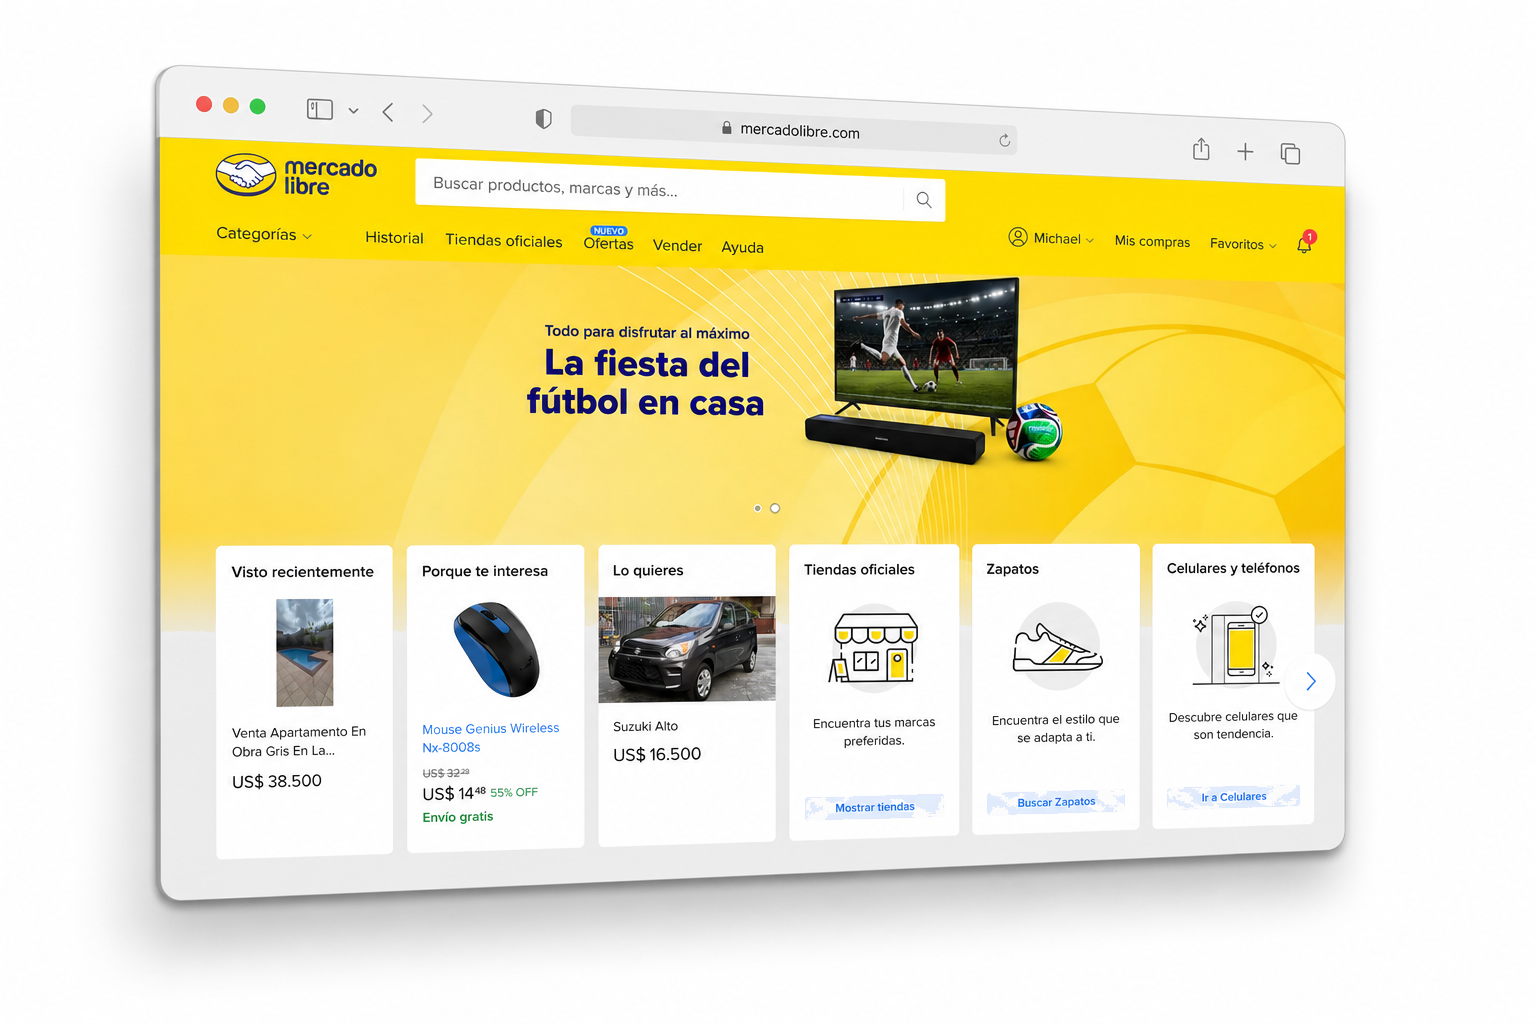
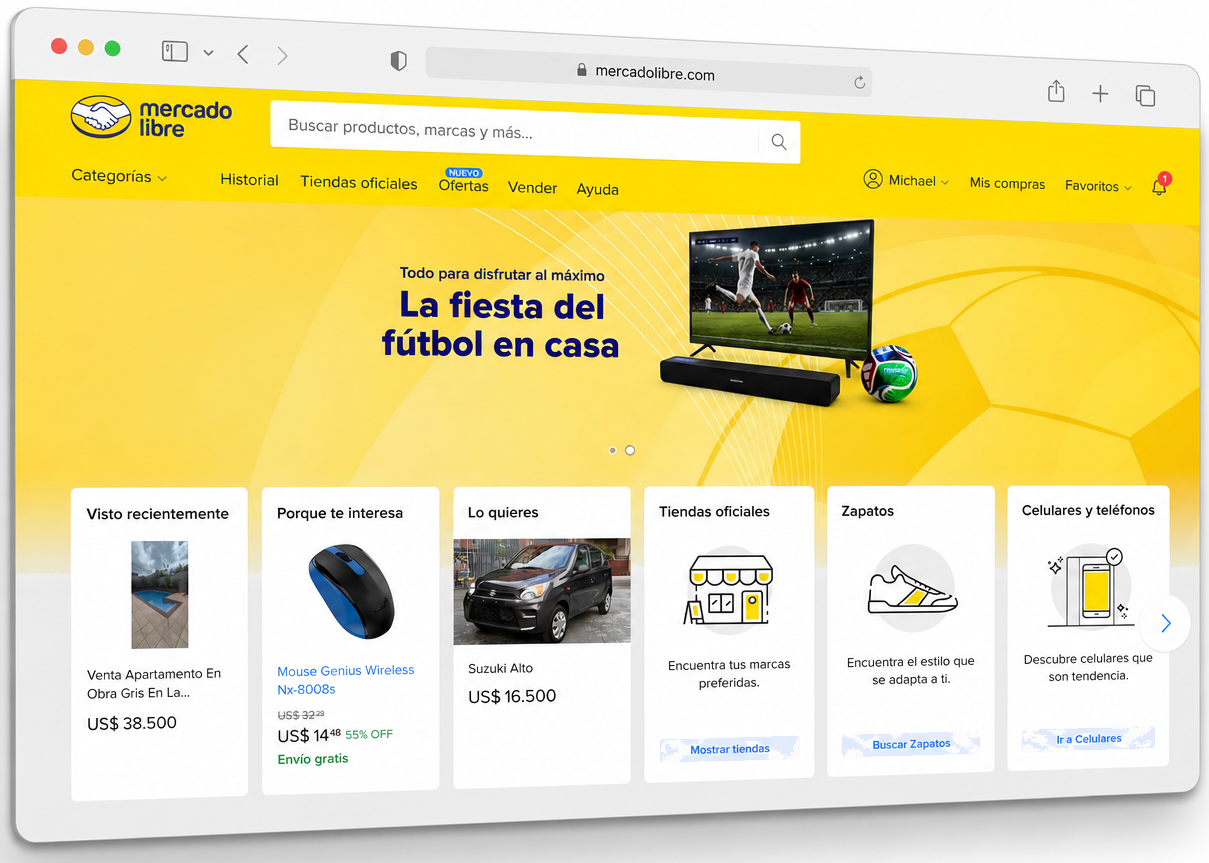
Tight-crop mockups, CWD backdrop, carousel lazy-start on scroll
Claude-Session: https://claude.ai/code/session_01Qx5nFY2WfJXXZ4ecp1yyGm

diff --git a/index.html b/index.html
@@ -308,7 +308,7 @@ button{font-family:'Archivo',sans-serif;}
 
 <!-- COMWARE -->
 <section id="comware" style="position:relative;background:#0E0E0F;color:#F4F1EB;padding:clamp(70px,11vw,170px) clamp(20px,8vw,200px);scroll-margin-top:60px;overflow:hidden;">
-  <div data-parallax data-speed="50" style="position:absolute;right:-2vw;top:4vw;font-family:'Anton';font-size:clamp(120px,26vw,440px);line-height:.8;color:#171717;pointer-events:none;z-index:0;">CW</div>
+  <div data-parallax data-speed="50" style="position:absolute;right:-2vw;top:4vw;font-family:'Anton';font-size:clamp(120px,26vw,440px);line-height:.8;color:#171717;pointer-events:none;z-index:0;">CWD</div>
   <div style="position:relative;z-index:2;">
     <div data-reveal style="display:flex;align-items:center;gap:10px;margin-bottom:30px;">
       <span style="width:34px;height:2px;background:#FF4A1A;"></span>
@@ -844,8 +844,14 @@ class Carousel {
     this.current = 0;
     this.interval = opts.interval || 4000;
     this.dark = opts.dark || false;
+    this.timer = null;
     this.build();
-    if(images.length > 1) this.timer = setInterval(()=>this.next(), this.interval);
+    if(images.length > 1){
+      const obs = new IntersectionObserver(entries=>{
+        if(entries[0].isIntersecting){ this.timer = setInterval(()=>this.next(), this.interval); obs.disconnect(); }
+      },{threshold:0.3});
+      obs.observe(this.el);
+    }
   }
   build(){
     this.el.innerHTML = '';